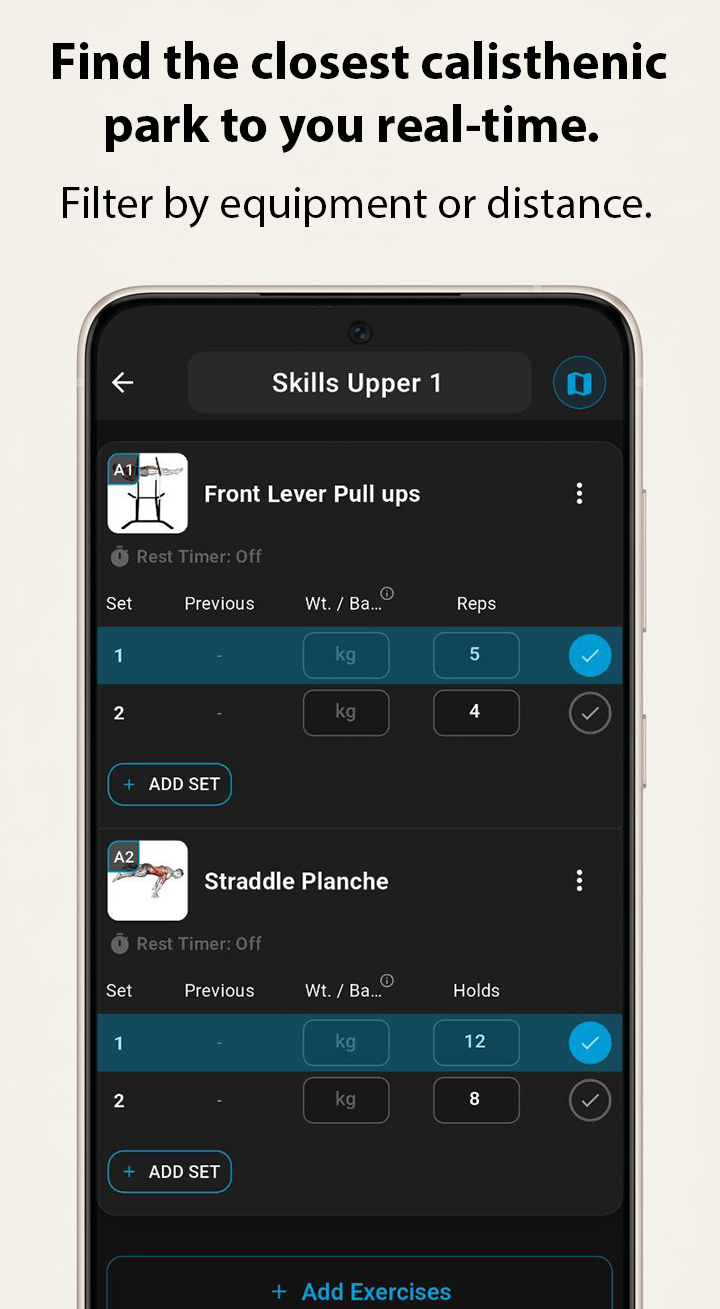
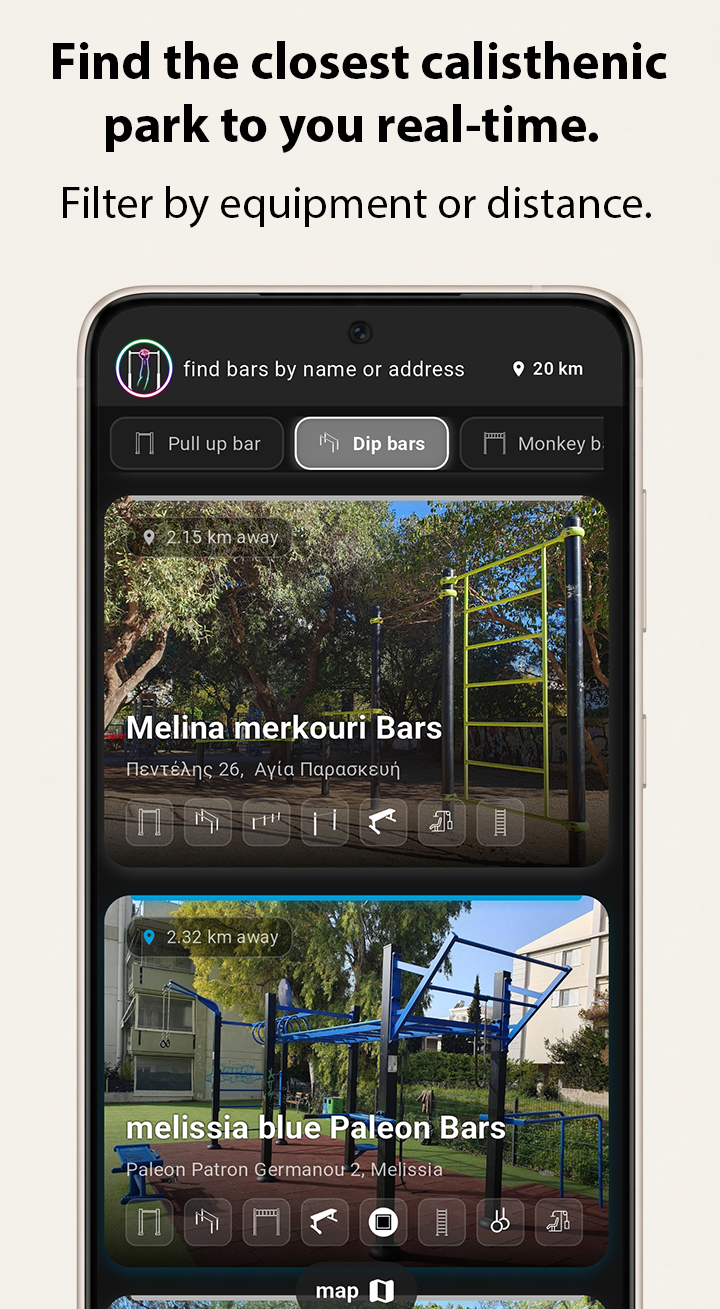
aetetics

diff --git a/app/page.js b/app/page.js
@@ -164,7 +164,9 @@ export default function Home() {
     { src: "/screen1.png", color: "from-blue-500 to-cyan-400" },
     { src: "/screen2.png", color: "from-green-500 to-green-400" },
     { src: "/screen3.png", color: "from-purple-500 to-purple-400" },
-    { src: "/screen4.png", color: "from-pink-500 to-pink-400" }
+    { src: "/screen4.png", color: "from-pink-500 to-pink-400" },
+      { src: "/screen5.png", color: "from-blue-500 to-cyan-400" },
+    { src: "/screen6.png", color: "from-green-500 to-green-400" }
   ].map((item, i) => (
     <motion.div 
       key={i}
